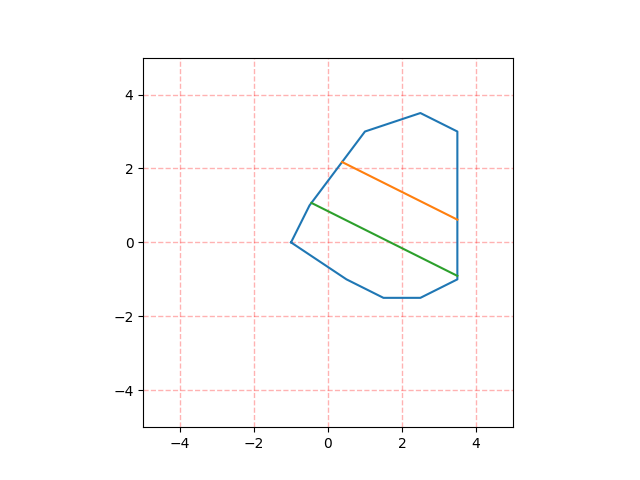
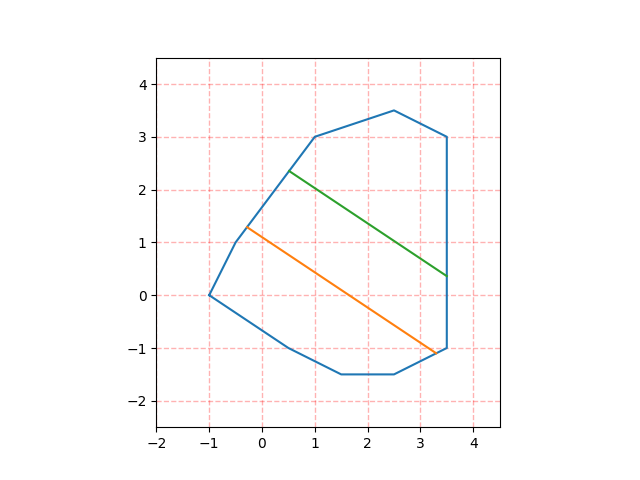
refactor: improve _draw_polygon function
auto scale x-limit and y-limit

diff --git a/divide_polygon.py b/divide_polygon.py
@@ -2,7 +2,7 @@
 Author       : zhangxianbing
 Date         : 2021-01-11 09:01:15
 LastEditors  : zhangxianbing
-LastEditTime : 2021-01-13 16:29:05
+LastEditTime : 2021-01-13 17:27:06
 Description  : Divide polygon
 """
 
@@ -233,8 +233,8 @@ def _draw_polygon(p: _Polygon, lines=None, title="") -> None:
     xs, ys = zip(*coord)
     plt.figure()
     plt.axis("square")
-    plt.xlim(-5, 5)
-    plt.ylim(-5, 5)
+    plt.xlim(min(p, key=lambda p: p.x).x - 1, max(p, key=lambda p: p.x).x + 1)
+    plt.ylim(min(p, key=lambda p: p.y).y - 1, max(p, key=lambda p: p.y).y + 1)
     plt.grid(color="r", linestyle="--", linewidth=1, alpha=0.3)
     plt.plot(xs, ys)
     if lines:
@@ -249,7 +249,8 @@ def _draw_polygon(p: _Polygon, lines=None, title="") -> None:
 if __name__ == "__main__":
     import os
 
-    p1 = [
+    # poly = [Point(3, 3), Point(8, 3), Point(8, 6), Point(3, 6)]
+    poly = [
         Point(-1, 0),
         Point(0.5, -1),
         Point(1.5, -1.5),
@@ -260,6 +261,7 @@ if __name__ == "__main__":
         Point(1, 3),
         Point(-0.5, 1),
     ]
+
     # print(_sep_polygon_lines(p1))
 
     # print(_eval_polygon_area([Point(0, 1), Point(2, 3), Point(4, 7)]))
@@ -274,8 +276,8 @@ if __name__ == "__main__":
     # for i in range(2, 10):
     #     print(_divide_polygon(p1, i))
 
-    print(p1)
+    print(f"polygon: {poly}")
     for i in range(2, 6):
-        lines = divide_polygon(p1, i, 6)
-        print(lines)
-        _draw_polygon(p1, lines, os.path.join("images", f"divide_{i}.png"))
+        lines = divide_polygon(poly, i, 1)
+        print(f"when n={i}, result: {lines}")
+        _draw_polygon(poly, lines, os.path.join("images", f"divide_{i}.png"))
